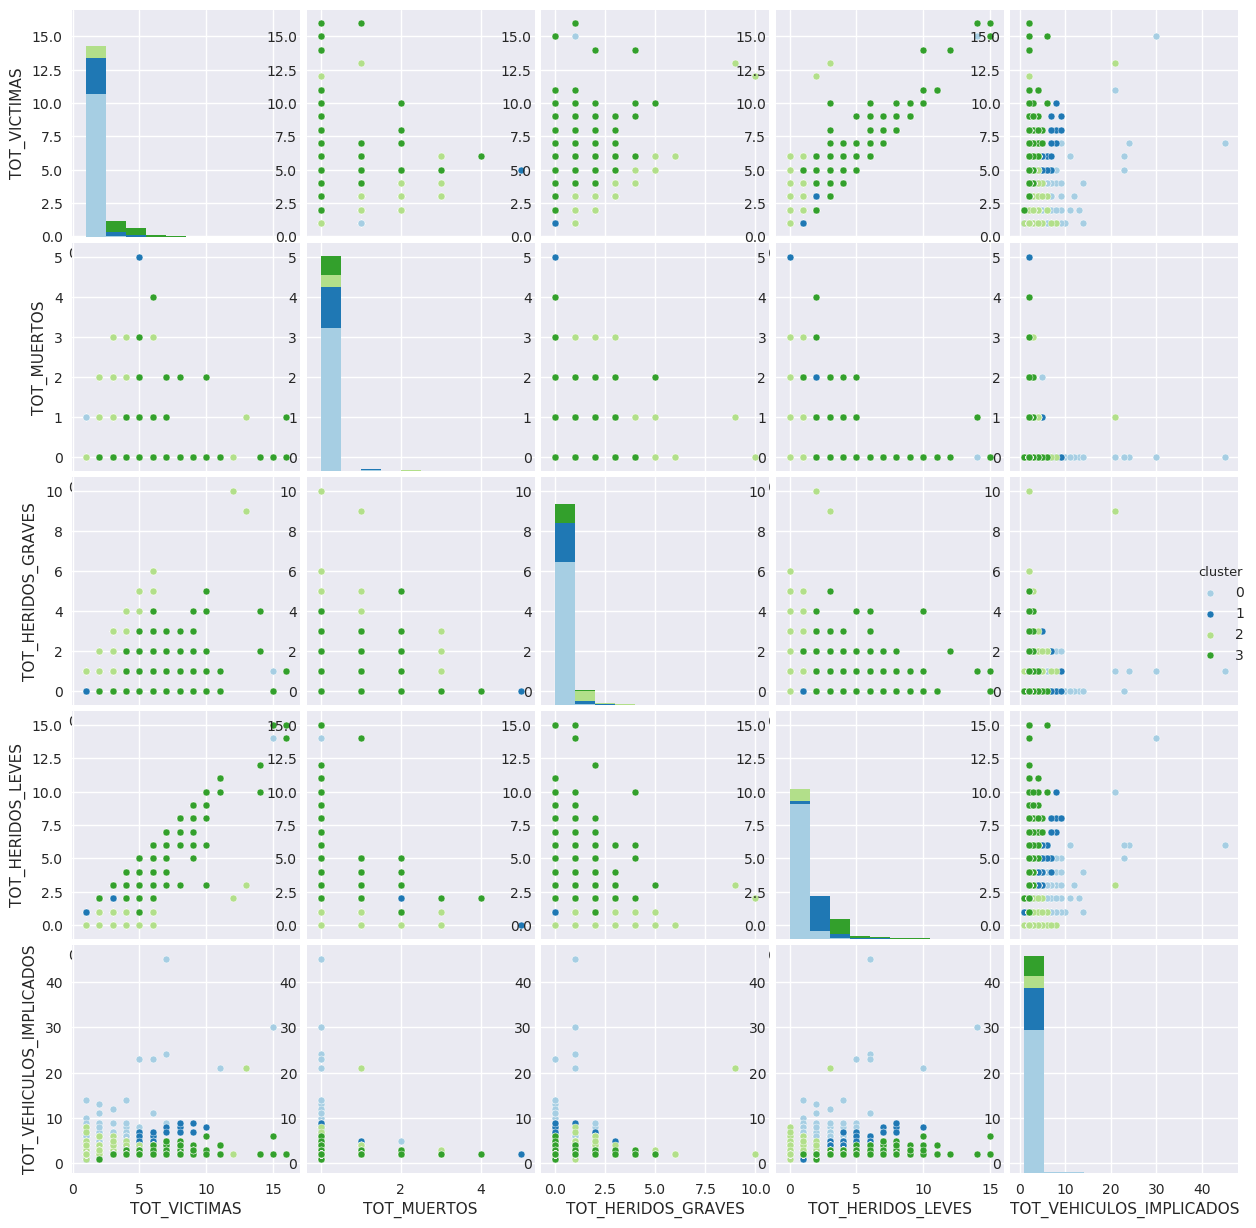
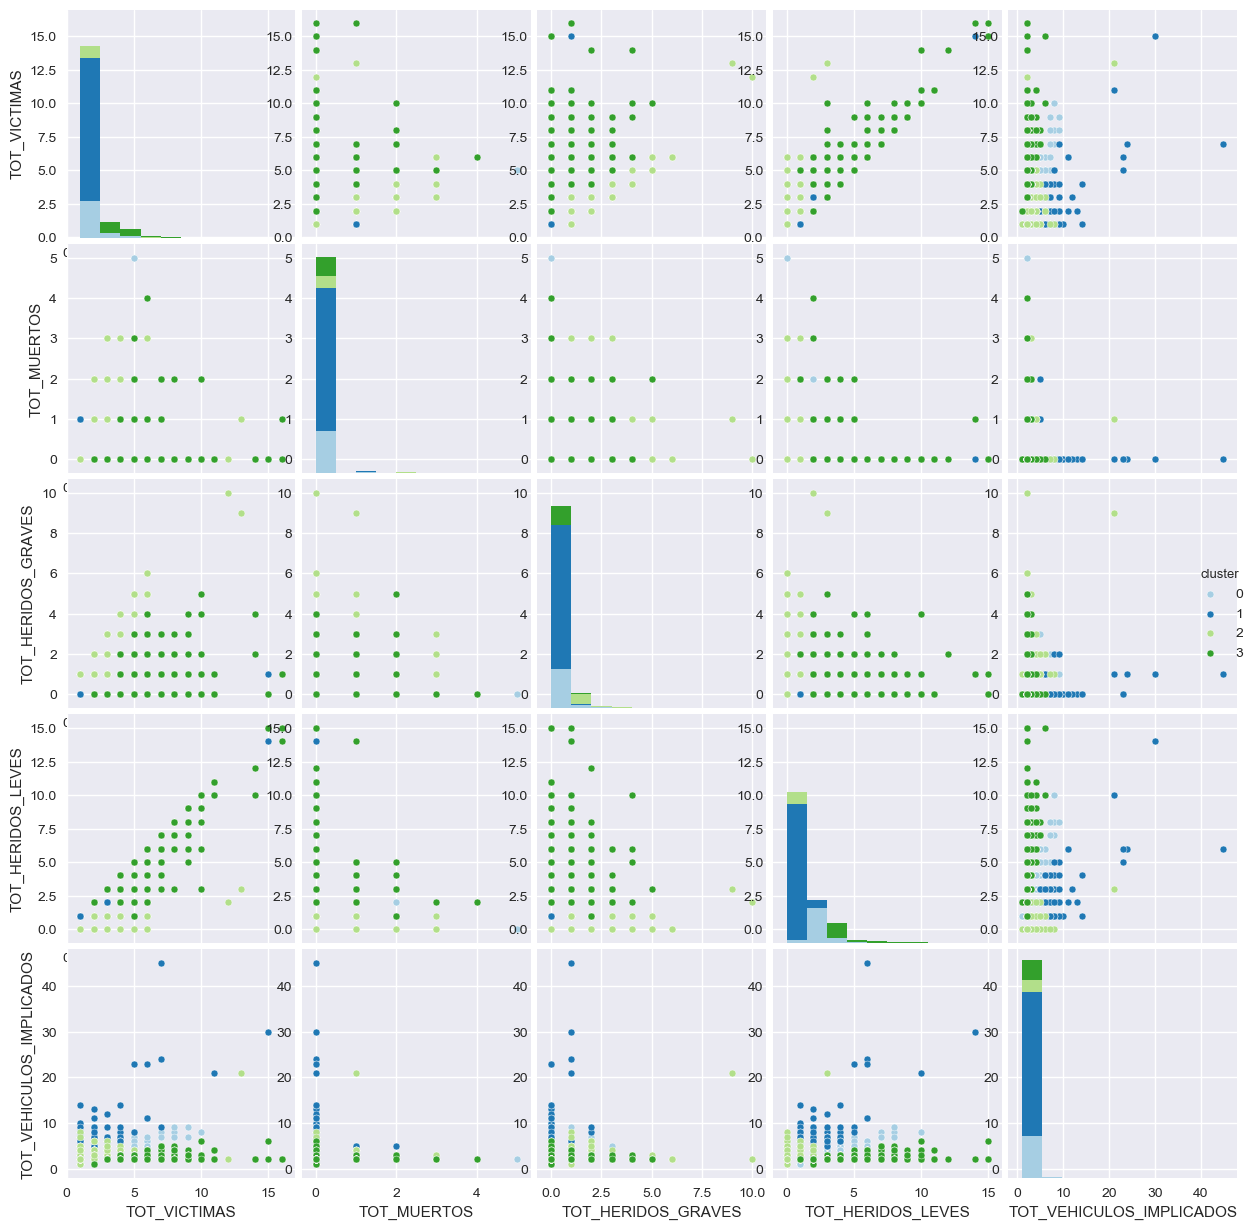
Añadidos 4 casos de estudio distintos al bucle de algoritmos

diff --git a/Practica2/practica2.py b/Practica2/practica2.py
@@ -3,7 +3,7 @@ import time
 import matplotlib.pyplot as plt
 import pandas as pd
 
-from sklearn.cluster import KMeans
+from sklearn import cluster
 from sklearn import metrics
 from sklearn import preprocessing
 from math import floor
@@ -17,7 +17,7 @@ prueba = True
 accidentes = pd.read_csv('accidentes_2013.csv')
 
 if(prueba):
-    subconjunto_accidentes = accidentes_2013_orig.sample(len(accidentes_2013_orig)//10)
+    accidentes = accidentes.sample(len(accidentes)//20)
 
 #seleccionar solo accidentes entre las 6 y las 12 de la mañana
 #subset = accidentes.loc[(accidentes['HORA']>=6) & (accidentes['HORA']<=12)]
@@ -27,8 +27,8 @@ if(prueba):
 
 #seleccionar variables de interés para clustering
 #usadas = ['HORA', 'DIASEMANA', 'TOT_VICTIMAS', 'TOT_MUERTOS', 'TOT_HERIDOS_GRAVES', 'TOT_HERIDOS_LEVES', 'TOT_VEHICULOS_IMPLICADOS']
-usadas = ['TOT_VICTIMAS', 'TOT_MUERTOS', 'TOT_HERIDOS_GRAVES', 'TOT_HERIDOS_LEVES', 'TOT_VEHICULOS_IMPLICADOS']
-X = subset[usadas]
+# usadas = ['TOT_VICTIMAS', 'TOT_MUERTOS', 'TOT_HERIDOS_GRAVES', 'TOT_HERIDOS_LEVES', 'TOT_VEHICULOS_IMPLICADOS']
+# X = subset[usadas]
 #seleccionar accidentes de tipo 'colisión de vehículos'
 subset1 = accidentes[accidentes['TIPO_ACCIDENTE'].str.contains("Colisión de vehículos")]
 caso_estudio1 = ['TOT_VICTIMAS', 'TOT_MUERTOS', 'TOT_HERIDOS_GRAVES', 'TOT_HERIDOS_LEVES', 'TOT_VEHICULOS_IMPLICADOS']
@@ -43,18 +43,45 @@ subset4 = accidentes[accidentes['TIPO_ACCIDENTE'].str.contains("Salida de la ví
 caso_estudio4 = ['TOT_VICTIMAS', 'TOT_MUERTOS', 'TOT_HERIDOS_GRAVES', 'TOT_HERIDOS_LEVES', 'TOT_VEHICULOS_IMPLICADOS']
 X4 = subset4[caso_estudio4]
 
+casos_de_estudio = [X1,X2,X3,X4]
 
-for x in (X1,X2,X3,X4):
-    X_normal = preprocessing.normalize(X, norm='l2')
+k_means = cluster.KMeans(init='k-means++',n_clusters=4, n_init=5)
+mbkm = cluster.MiniBatchKMeans(n_clusters=4)
+ms = cluster.MeanShift()
+spectral = cluster.SpectralClustering(n_clusters=4)
+affinity_propagation = cluster.AffinityPropagation()
+dbscan = cluster.DBSCAN(eps=0.1)
+birch = cluster.Birch(n_clusters=4,threshold=0.1)
+ward = cluster.AgglomerativeClustering(n_clusters=100, linkage='ward')
 
 clustering_algorithm = (
-    ('k-means',k_means)
+    ('k-means',k_means),
+    ('MiniBatkMeans',mbkm),
+    ('MeanShift',ms),
+    ('DBSCAN',dbscan),
+    ('Birch',birch),
+    ('SpectralClustering',spectral),
+    ('Ward',ward)
 )
 
-for name,algotithm in clustering_algorithm:
-    print('{:19s}'.format(name),end='')
-    t = t.time.time()
-    cluster_predict = algorithms.fit_predict(X_normal)
-    k = len(set(cluster_predict))
-    print(': k: {3.0f}, '.format(k),end='')
-    print("{:6.2f}")
+for i,X in enumerate(casos_de_estudio):
+    print("\nCaso de estudio "+str(i+1)+":\n")
+    X_normal = preprocessing.normalize(X, norm='l2')
+
+    for name,algorithm in clustering_algorithm:
+        print('{:19s}'.format(name),end='')
+        t = time.time()
+        cluster_predict = algorithm.fit_predict(X_normal)
+        tiempo = time.time() - t
+        k = len(set(cluster_predict))
+        print(": k: {:3.0f}, ".format(k),end='')
+        print("{:6.2f} segundos, ".format(tiempo),end='')
+        if(k>1) and (name is not 'Ward'):
+            metric_CH = metrics.calinski_harabaz_score(X_normal, cluster_predict)
+
+            metric_SH = metrics.silhouette_score(X_normal, cluster_predict,metric = 'euclidean',sample_size=floor(0.1*len(X1)),random_state=123456)
+        else:
+            metric_CH = 0
+            metric_SH = 0
+        print("CH Index: {:8.9f}, ".format(metric_CH),end='')
+        print("SC: {:.5f}".format(metric_SH))
